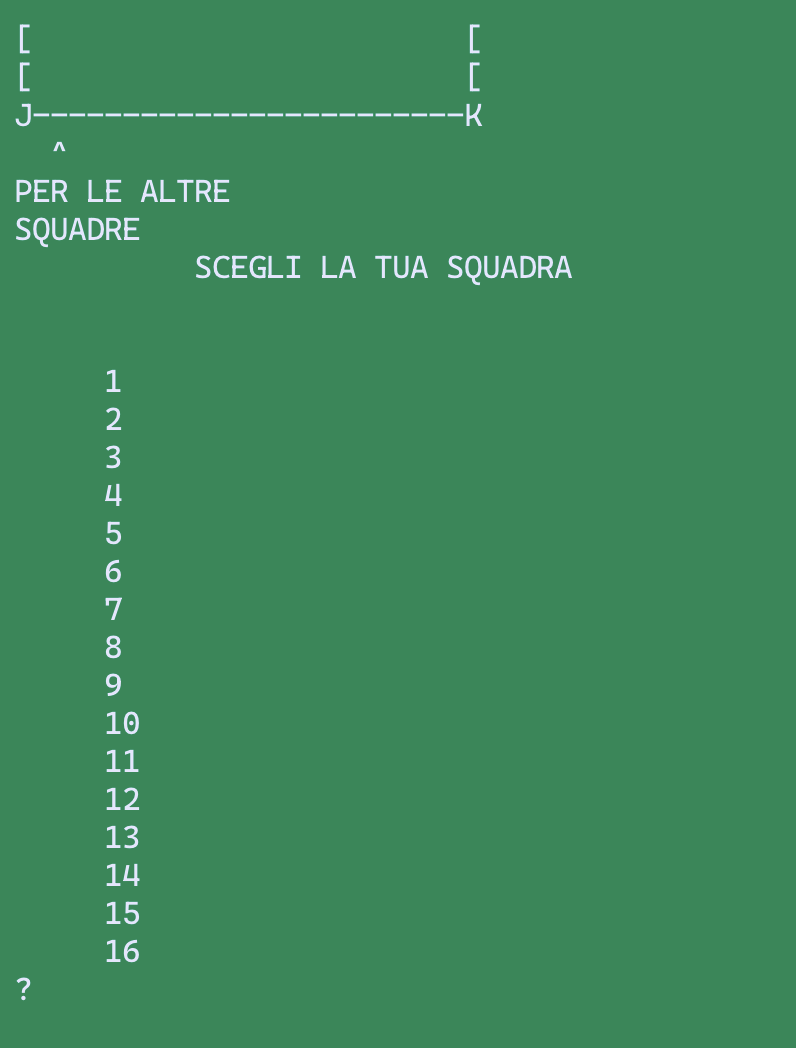
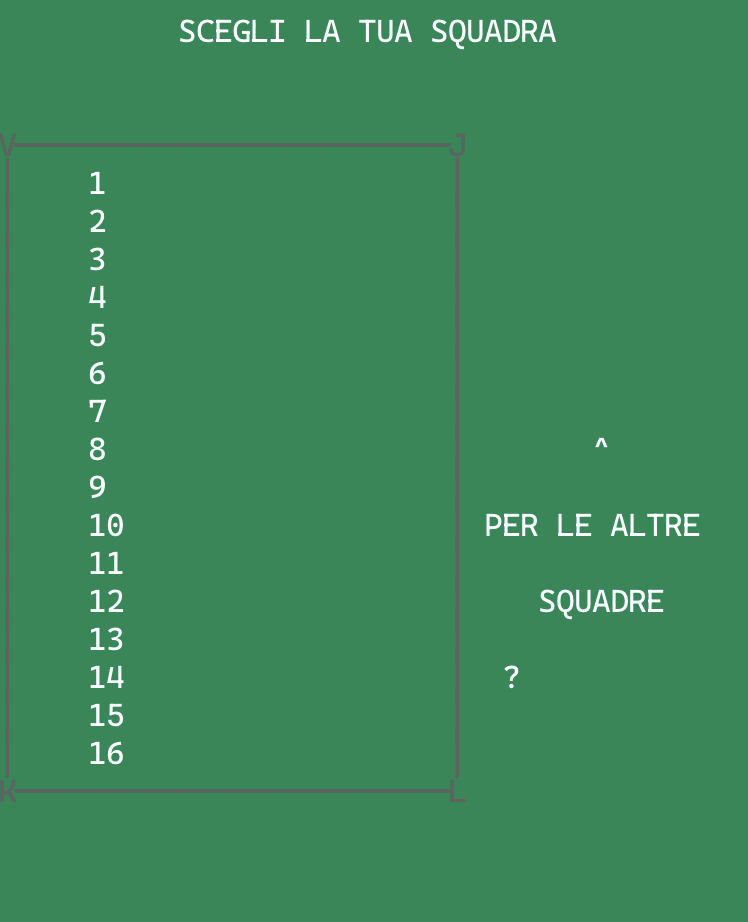
Add array support to READ statement
The READ statement previously only supported simple variables,
causing array assignments like `READ A$(1), A$(2)` to fail.
This prevented team names from being loaded into the A$ array.

Changes:
1. Created ReadTarget struct with variable name and optional indices
2. Updated parse_read() to parse array access syntax like A$(1)
3. Updated exec_read() to handle both simple variables and array elements
4. Added auto-dimensioning support for arrays in READ statements

This fixes the missing team names in the "SCEGLI LA TUA SQUADRA" screen.

🤖 Generated with [Claude Code](https://claude.com/claude-code)

diff --git a/basic-emulator/src/interpreter.rs b/basic-emulator/src/interpreter.rs
@@ -414,8 +414,8 @@ impl Interpreter {
         Ok(())
     }
 
-    fn exec_read(&mut self, vars: &[String]) -> Result<(), String> {
-        for var in vars {
+    fn exec_read(&mut self, targets: &[crate::parser::ReadTarget]) -> Result<(), String> {
+        for target in targets {
             if self.data_pointer >= self.data_values.len() {
                 return Err("OUT OF DATA".to_string());
             }
@@ -423,13 +423,43 @@ impl Interpreter {
             let data_str = &self.data_values[self.data_pointer];
             self.data_pointer += 1;
 
-            let value = if var.ends_with('$') {
+            let value = if target.variable.ends_with('$') {
                 Value::String(data_str.clone().into_bytes())
             } else {
                 Value::Number(data_str.parse().unwrap_or(0.0))
             };
 
-            self.variables.insert(var.clone(), value);
+            // Handle array or simple variable assignment
+            if let Some(indices) = &target.index {
+                // Array assignment
+                let index_values: Result<Vec<usize>, String> = indices
+                    .iter()
+                    .map(|e| Ok(self.eval_expr(e)?.as_int()? as usize))
+                    .collect();
+                let index_values = index_values?;
+
+                // C64 BASIC auto-dimensions arrays on first use (0-10)
+                if !self.array_dimensions.contains_key(&target.variable) {
+                    self.auto_dimension_array(&target.variable, indices.len())?;
+                }
+
+                let dims = self.array_dimensions.get(&target.variable)
+                    .ok_or_else(|| format!("Array {} not dimensioned", target.variable))?.clone();
+
+                let flat_index = self.calculate_flat_index(&index_values, &dims)?;
+
+                let array = self.arrays.get_mut(&target.variable)
+                    .ok_or_else(|| format!("Array {} not dimensioned", target.variable))?;
+
+                if flat_index >= array.len() {
+                    return Err(format!("Array index out of bounds"));
+                }
+
+                array[flat_index] = value;
+            } else {
+                // Simple variable assignment
+                self.variables.insert(target.variable.clone(), value);
+            }
         }
 
         Ok(())

diff --git a/basic-emulator/src/parser.rs b/basic-emulator/src/parser.rs
@@ -15,10 +15,16 @@ pub enum Statement {
     Next(Option<String>),
     Dim(Vec<DimDeclaration>),
     Data(Vec<String>),
-    Read(Vec<String>),
+    Read(Vec<ReadTarget>),
     Poke(Box<Expr>, Box<Expr>),
     End,
     Rem(String),
+}
+
+#[derive(Debug, Clone, PartialEq)]
+pub struct ReadTarget {
+    pub variable: String,
+    pub index: Option<Vec<Expr>>,
 }
 
 #[derive(Debug, Clone, PartialEq)]
@@ -680,11 +686,33 @@ impl Parser {
 
     fn parse_read(&mut self) -> Result<Statement, String> {
         self.consume_word("READ");
-        let mut variables = Vec::new();
+        let mut targets = Vec::new();
 
         loop {
             self.skip_whitespace();
-            variables.push(self.parse_identifier()?);
+            let variable = self.parse_identifier()?;
+            let mut index = None;
+
+            // Check for array access
+            self.skip_whitespace();
+            if self.peek() == Some('(') {
+                self.advance();
+                let mut indices = Vec::new();
+                loop {
+                    indices.push(self.parse_expression()?);
+                    self.skip_whitespace();
+                    if self.peek() == Some(',') {
+                        self.advance();
+                    } else {
+                        break;
+                    }
+                }
+                self.expect(')')?;
+                index = Some(indices);
+            }
+
+            targets.push(ReadTarget { variable, index });
+
             self.skip_whitespace();
             if self.peek() == Some(',') {
                 self.advance();
@@ -693,7 +721,7 @@ impl Parser {
             }
         }
 
-        Ok(Statement::Read(variables))
+        Ok(Statement::Read(targets))
     }
 
     fn parse_poke(&mut self) -> Result<Statement, String> {
